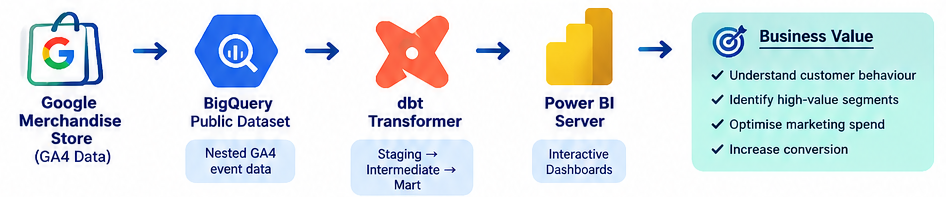
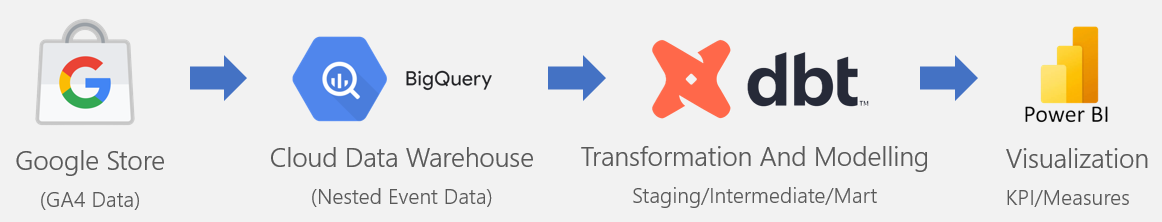
adjust the order in readme and update the flow chart

diff --git a/README_GA4_Ecommerce_Analytics.md b/README_GA4_Ecommerce_Analytics.md
@@ -31,6 +31,16 @@ A hands-on digital analytics project using the **Google Merchandise Store GA4 pu
 
 ---
 
+# 🚀 End-to-End Analytics Flow
+
+![End-to-End Analytics Flow](docs/end_to_end_analytics_flow.png)
+
+**GA4 nested events → BigQuery → dbt Staging / Intermediate / Mart → Power BI → business insights and activation-ready segments.**
+
+The raw GA4 structure is preserved in BigQuery while business-relevant attributes are promoted into reusable analytical models.
+
+---
+
 # 📊 Power BI Dashboards
 
 > Export the three dashboard pages to `docs/` using the filenames below.
@@ -49,16 +59,6 @@ A hands-on digital analytics project using the **Google Merchandise Store GA4 pu
 ![Product Insights](docs/product_insights.png)
 
 **Product performance | Product segmentation | Activity/recency | Category performance**
-
----
-
-# 🚀 End-to-End Analytics Flow
-
-![End-to-End Analytics Flow](docs/end_to_end_analytics_flow.png)
-
-**GA4 nested events → BigQuery → dbt Staging / Intermediate / Mart → Power BI → business insights and activation-ready segments.**
-
-The raw GA4 structure is preserved in BigQuery while business-relevant attributes are promoted into reusable analytical models.
 
 ---
 
@@ -318,4 +318,4 @@ Product segmentation prioritises **purchase, revenue and recency** because valid
 
 **Google Merchandise Store GA4 public dataset**, accessed through Google BigQuery.
 
-This repository is a portfolio analytics project built for learning and demonstration purposes.
+License: Project code is released under the MIT License. The Google Merchandise Store GA4 sample data remains subject to Google's applicable terms.
